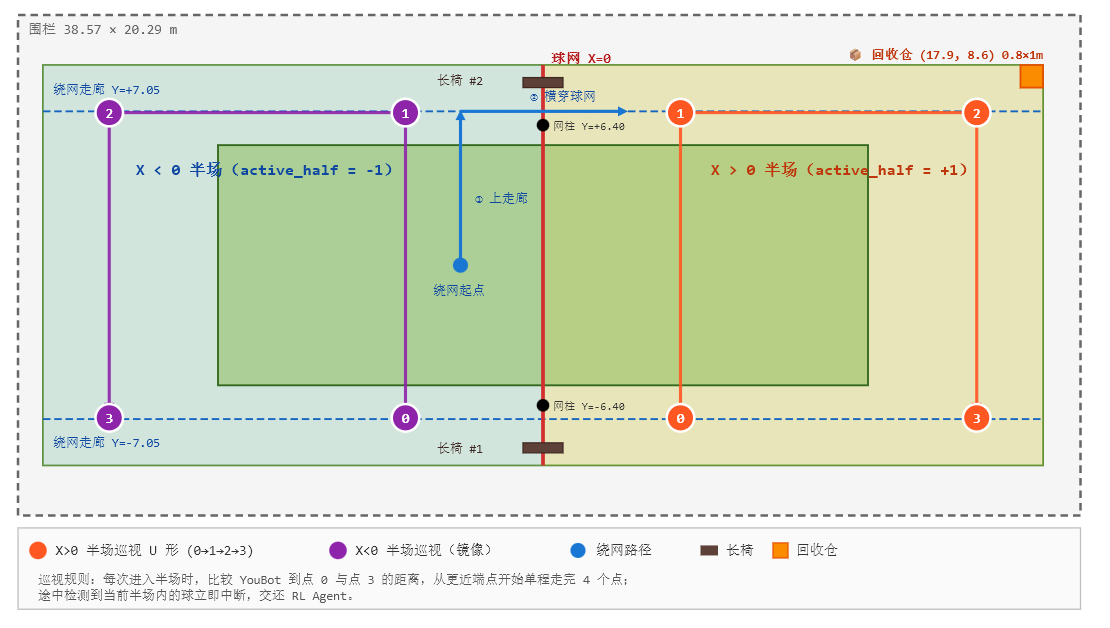
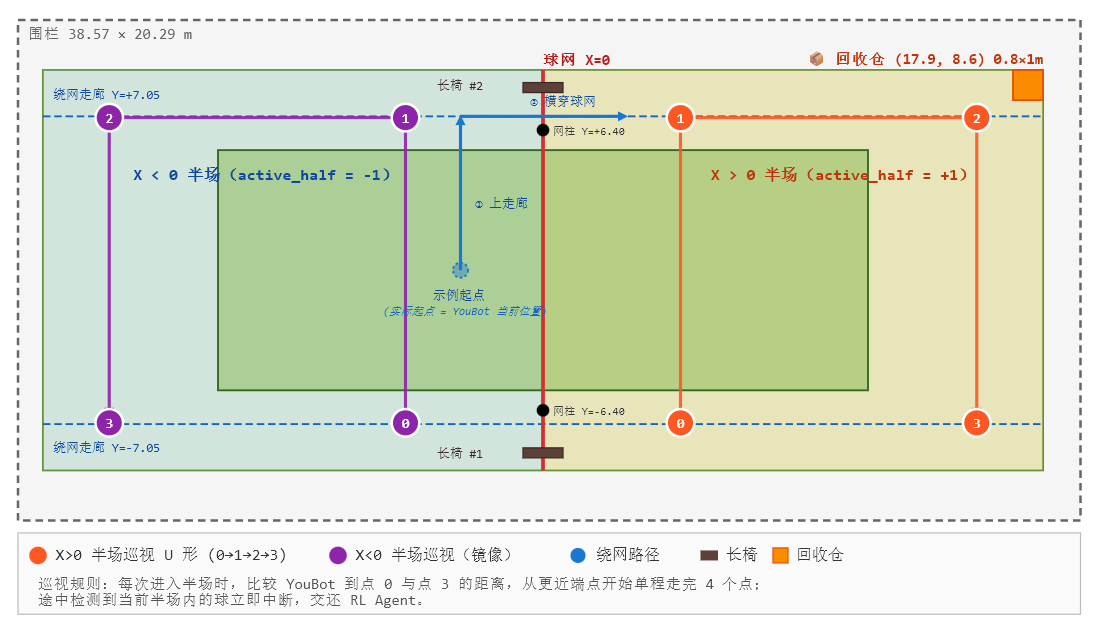
modify bypass net section

diff --git a/README.md b/README.md
@@ -421,10 +421,22 @@ while 场上有球:
 
 ### 绕网（bypass_net）
 
+> **起点是动态的**：bypass 没有固定的"绕网起点"，路径起点 = bypass 调用时 YouBot 当前位置（先调 `_escape_from_obstacle(safe_margin=1.5)` 脱困到安全位置后再读取）。下表两个 waypoint 都基于这个动态起点 (`rx`, `ry`) 推导。
+
 | 段           | 路径点                       | 几何含义                            |
 |--------------|------------------------------|-------------------------------------|
-| 安全离网     | (sign·max(\|rx\|, 1.5), ±7.05) | 先离网 1.5m，再纵向退到走廊 Y=±7.05 |
-| 横穿 X=0     | (target_half·3.0, ±7.05)     | 走廊位于网柱(\|Y\|=6.40)与椅子(\|Y\|≥7.72)之间 |
+| WP1 安全离网 | `(sign(rx)·max(|rx|, 1.5), sign(ry)·7.05)` | 当前 X（或最少离网 1.5m）+ 当前 Y 同侧的走廊 Y=±7.05 |
+| WP2 横穿 X=0 | `(target_half·3.0, sign(ry)·7.05)` | 沿走廊横穿到目标半场 X=±3 |
+
+走廊位于网柱（\|Y\|=6.40）与椅子（\|Y\|≥7.72）之间。
+
+**典型走法举例**：
+
+| YouBot 当前位置 | bypass_y | rx_safe | WP1 | WP2 |
+|-----------------|----------|---------|-----|-----|
+| (-3, 0) | +7.05 | -3 | (-3, +7.05) 纵向上走廊 | (+3, +7.05) 横穿 |
+| (-0.5, 0) | +7.05 | -1.5 | (-1.5, +7.05) 斜走 | (+3, +7.05) 横穿 |
+| (-7, -3) | -7.05 | -7 | (-7, -7.05) 下走廊 | (+3, -7.05) 横穿 |
 
 ### 半场巡视（patrol_half）
 